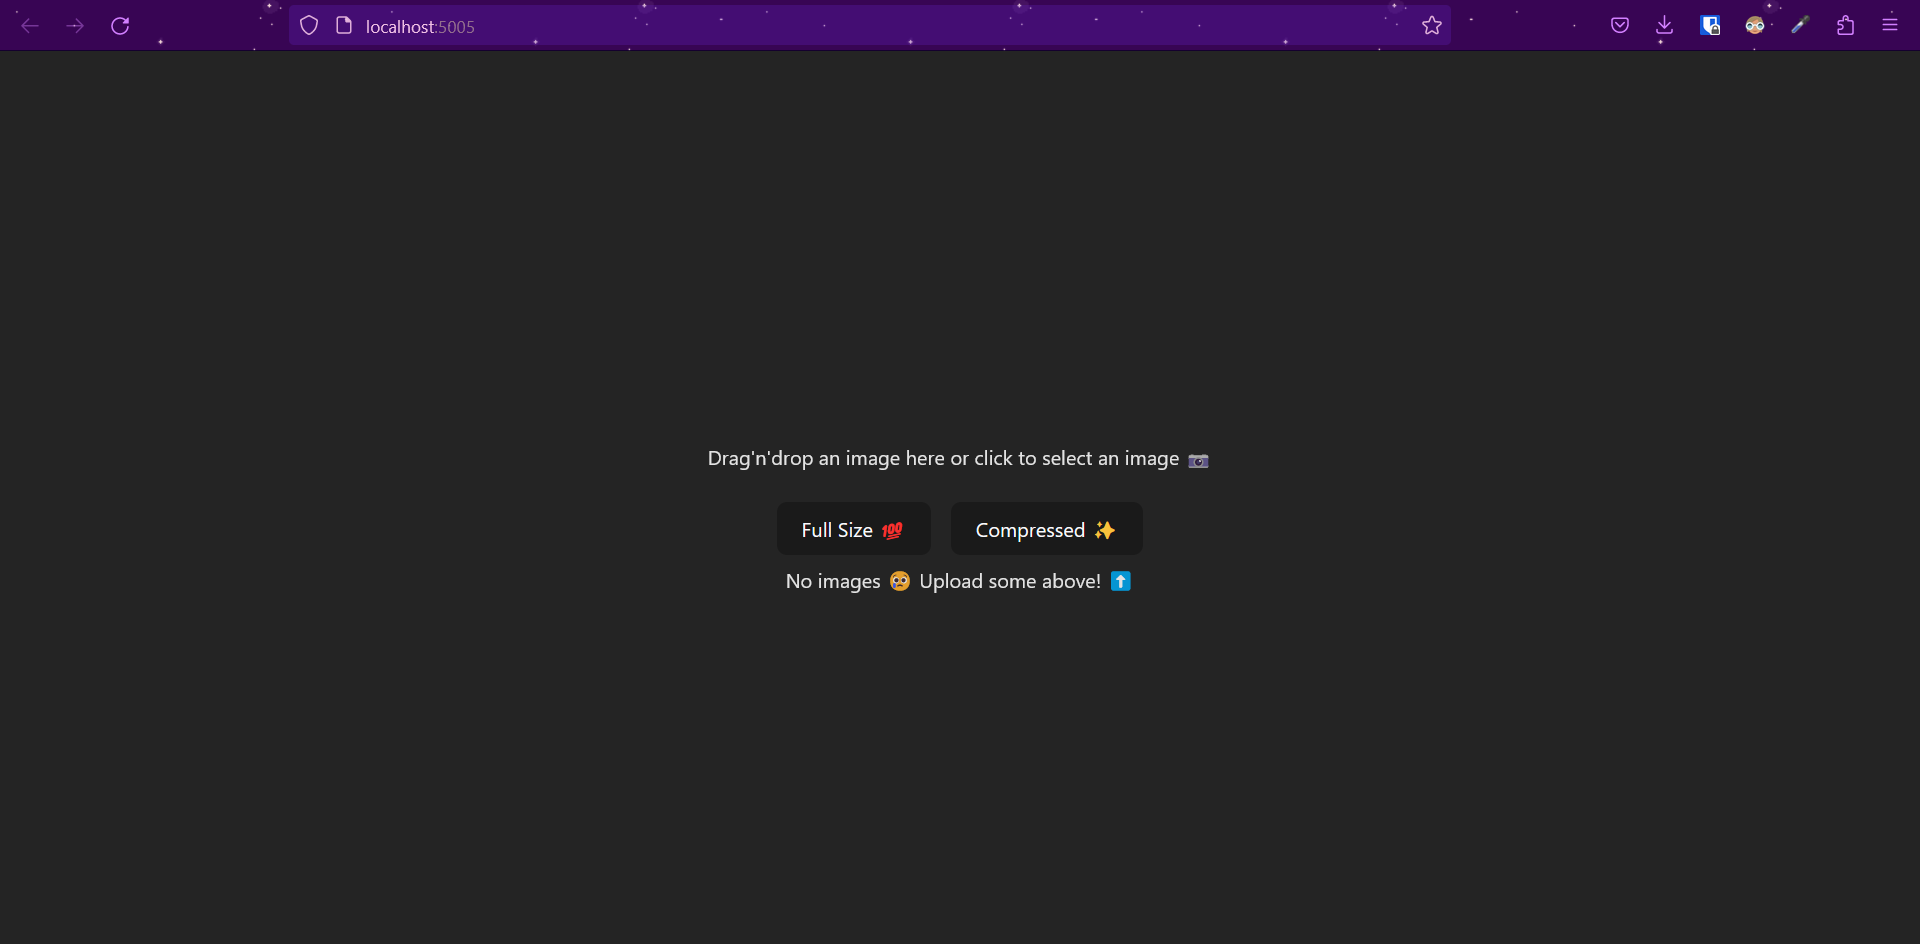
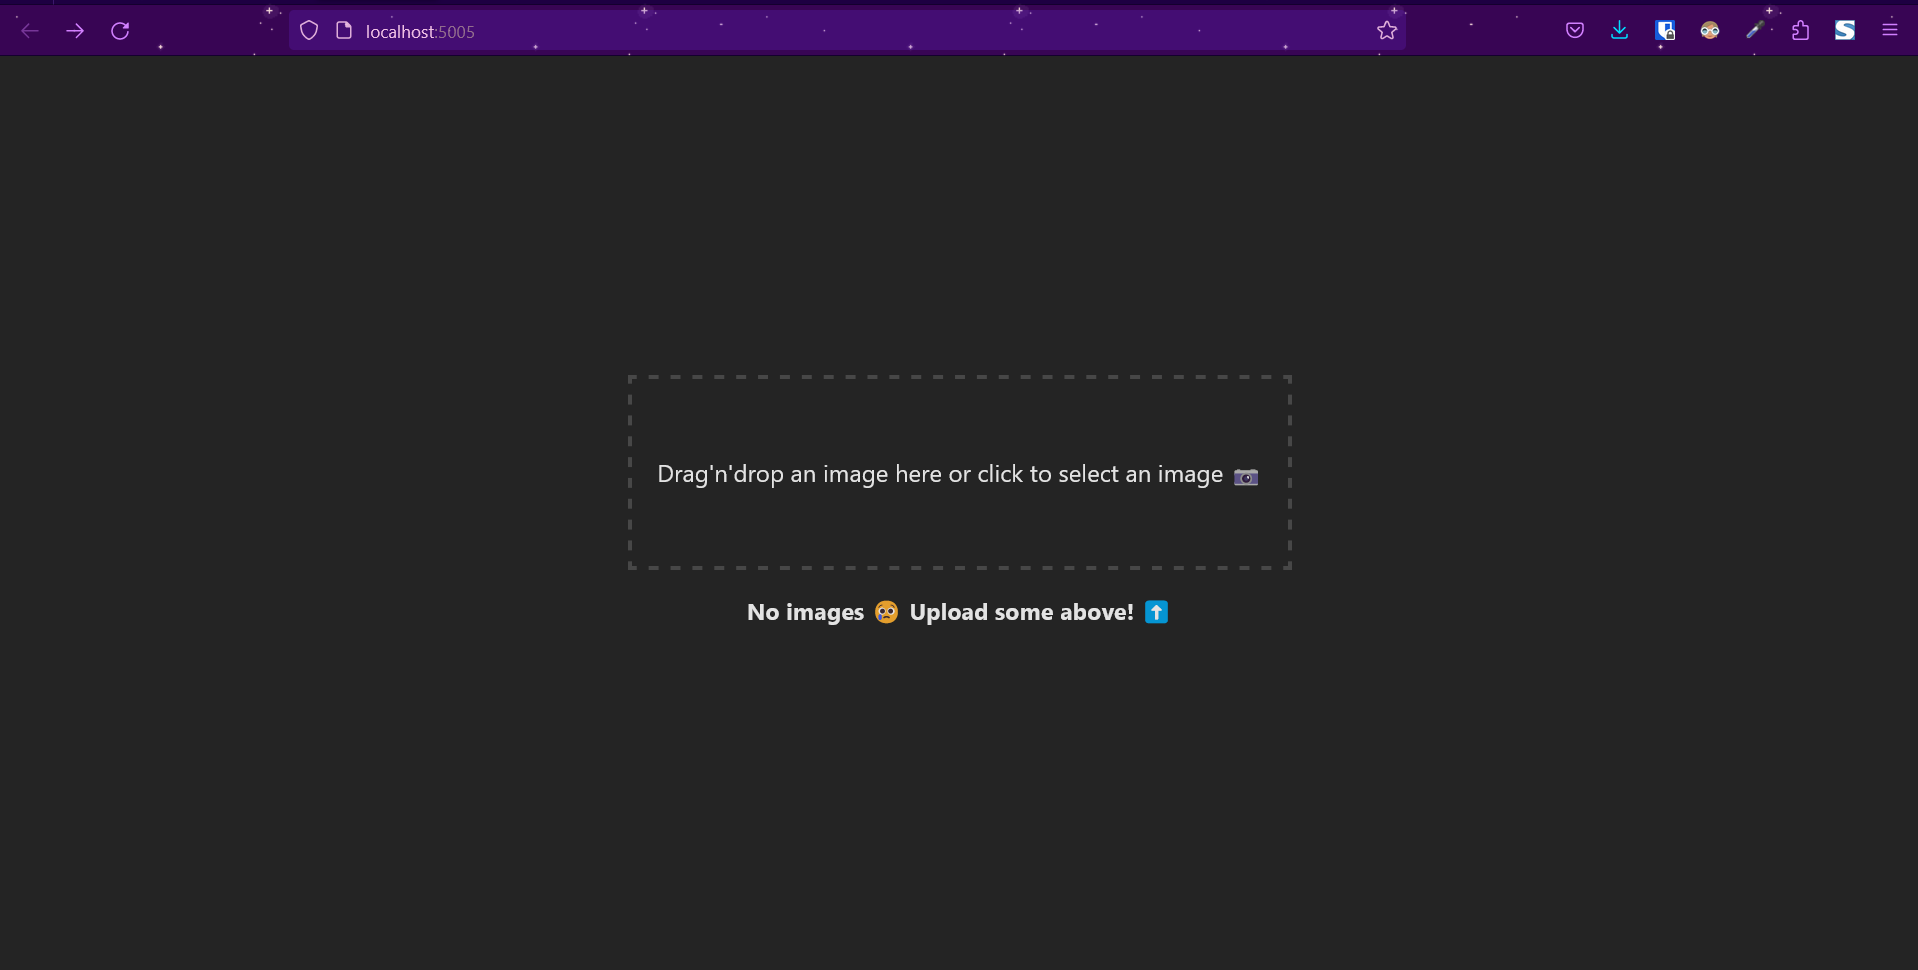
add components descriptions to readme

Changed region(s): [[0.0, 0.0, 1.0, 0.0614], [0.3691, 0.553, 0.6152, 0.6451], [0.3384, 0.4608, 0.6767, 0.5222]]

diff --git a/client/src/ui/ImageUploadForm.tsx b/client/src/ui/ImageUploadForm.tsx
@@ -14,7 +14,7 @@ const ImageUploadForm = () => {
                 {({ getRootProps, getInputProps }) => (
                     <div {...getRootProps()} className="dropzone">
                         <input {...getInputProps()} />
-                        <h3>Drag'n'drop an image here or click to select an image 📷</h3>
+                        <h3 className="dropzone-text">Drag'n'drop an image here or click to select an image 📷</h3>
                     </div>
                 )}
             </Dropzone>

diff --git a/client/src/ui/ImageGallery.tsx b/client/src/ui/ImageGallery.tsx
@@ -11,7 +11,7 @@ const ImageGallery: FC = () => {
             <div>
             </div>
             {imagesData && imagesData?.length > 0 ? <ImageGrid images={imagesData}/> :
-                <div>No images 😢 Upload some above! ⬆</div>}
+                <h3>No images 😢 Upload some above! ⬆</h3>}
         </div>
     )
 }

diff --git a/client/src/ui/index.css b/client/src/ui/index.css
@@ -64,3 +64,9 @@ button:focus-visible {
   align-items: center;
   justify-content: center;
 }
+
+.dropzone-text {
+    font-size: 1.2em;
+    font-weight: 500;
+    padding: 20px;
+}

diff --git a/README.md b/README.md
@@ -40,27 +40,187 @@ PRIVATE_VAPID_KEY=<server_private_vapid_key>
 
 ## Server
 
-API is built with Node.js, TypeScript and Express.js. \
-It exposes the following endpoints:
-- `POST /images/upload` - uploads full size image to Cloudinary and adds a compressing task to the Redis queue
-- `GET /images` - returns a list of all images data stored in the database
-- `GET /images/:id` - returns data of a single image
-- `GET /tasks/:id` - returns data of a single task
-- `GET /tasks/:id/status` - returns status of a single task
+### Endpoints:
+The server exposes several endpoints to interact with the image compressing service:
 
-## Worker
+    POST /images/upload
+This endpoint allows clients to upload full-size images to the server. The server then sends the images to Cloudinary for storage and adds a compressing task to the Redis queue. This asynchronous processing approach ensures that image compression tasks are decoupled from the image upload process, enabling better scalability and responsiveness.
 
-## Client
+    GET /images
+This endpoint provides a list of all images' metadata stored in the database. Clients can use this endpoint to retrieve information about the images available in the system, including their URLs and compression status.
+
+    GET /images/:id
+Clients can use this endpoint to obtain detailed information about a specific image based on its unique ID. This information includes the image's URL and compressed version URL, if available.
+
+    GET /tasks/:id
+This endpoint returns data related to a single compressing task based on its unique ID. Clients can use this endpoint to track the progress and details of ongoing or completed image compression tasks.
+
+    GET /tasks/:id/status
+This endpoint provides the status of a specific compressing task based on its unique ID. Clients can use this endpoint to check whether a particular task is pending, completed, completed with errors, or has failed.
+
+**MVC Architecture:**
+The server is structured using the Model-View-Controller (MVC) architectural pattern, which helps organize code and promote maintainability.
+![mvc.png](media%2Fmvc.png)
 
 ## MongoDB
+### Models:
+```javascript
+const compressingTaskSchema = new Schema({
+    imageId: {
+        type: mongoose.Schema.Types.ObjectId,
+        ref: 'ImageMetadata'
+    },
+    status: {
+        type: String,
+        enum: ['pending', 'completed', 'completed_with_errors', 'failed'],
+        default: 'pending'
+    }
+}, {
+    timestamps: true
+})
 
+export const CompressingTask = mongoose.model('CompressingTask', compressingTaskSchema)
+```
+The **CompressingTask** model is used to store information about image compression tasks. It has two main fields:
+- `imageId` - reference to the ImageMetadata model. This establishes a relationship between the compression task and the image it is meant to compress.
+- `status` - indicates the status of the task. It can be one of the following values:
+    - `pending` - the task is waiting to be processed by the worker
+    - `completed` - the task has been completed successfully
+    - `completed_with_errors` - the task has been completed, but some errors occurred during the process
+    - `failed` - the task has failed
+
+```javascript
+const imageMetadataSchema = new Schema({
+    imageUrl: {
+        type: String,
+        required: true,
+    },
+    compressedUrl: {
+        type: String,
+        default: null,
+    }
+}, {
+    timestamps: true
+})
+
+export const ImageMetadata = mongoose.model('ImageMetadata', imageMetadataSchema)
+
+```
+
+The **ImageMetadata** model is used to store metadata related to images. It contains the following fields:
+- `imageUrl` - URL of the full size image stored in Cloudinary
+- `compressedUrl` - URL of the compressed image stored in Cloudinary.  It is set to null by default, indicating that the image has not been compressed yet.
+
+
+## Worker
+The image compression worker is a Python script responsible for compressing images received from the compressing API. It runs continuously, processing tasks from a Redis queue and interacting with MongoDB and Cloudinary for image processing and storage.
+After the task of compression is done, it sends a message to a Redis topic with the result of the task. The message is then received by the API. \
+### Multiprocessing:
+The script uses multiprocessing to create multiple workers, where each worker acts as an independent image compressor. By distributing tasks across these workers, the system achieves parallel processing of images, improving efficiency and throughput. The blpop method ensures safe task consumption from the Redis queue, preventing duplicate processing and ensuring seamless task distribution among the workers.
+```python
+ def take_task_from_queue(self):
+        result = self.client.blpop(self.tasks_queue_name)
+        logging.info(f"Task taken from {self.tasks_queue_name} queue.")
+        return result[1]
+ ```
+### Image compression:
+The compression is done using the Pillow library. The script first downloads the image from Cloudinary, then compresses it and uploads the compressed version back to Cloudinary. The script also updates the status of the task in MongoDB, indicating whether the compression was successful or not.
+```python
+    def process_image(self, image_url):
+        try:
+            image_bytes = self.cloudinary_client.download_image(image_url)
+            image = self.open_and_convert_image(image_bytes)
+            compressed_image_bytes = self.perform_image_compression(image)
+            compressed_image_url = self.upload_compressed_image(compressed_image_bytes)
+
+            logging.info("Image processed successfully")
+
+            return compressed_image_url
+        except (ImageDownloadError, OpenAndConvertImageError, CompressImageError) as e:
+            raise ProcessImageError(e)
+        except Exception as e:
+            raise UnknownProcessImageError(e)
+```
+## Client
+
+The client component is built with React and Vite. It allows users to upload images to the server and retrieve information about the image. \
+![client.png](media%2Fclient-photos.png)
+![client.png](media%2Fclient-image-info.png)
+
+For optimized information fetching, the client uses the React Query library. It provides a declarative approach to data fetching and caching, which helps avoid unnecessary network requests and improves performance. \
+Application cahces images data from the server and updates it only on new upload. 
+```typescript
+
+export const useGetImagesData = (): UseQueryResult<ImageData[]> => useQuery([IMAGES_LIST_KEY],
+        async () => {
+             // Images data fetching
+        })
+
+
+export const useUploadImage = () => {
+  const queryClient = useQueryClient()
+  return useMutation(async (image: File) => {
+             // Image upload
+          },
+          {
+            onSuccess: () => {
+              queryClient.invalidateQueries([IMAGES_LIST_KEY])
+            },
+          })
+}
+```
 ## Redis
+For communication between the API and the worker, the system uses Redis queues and topics. The API adds compressing tasks to the queue, and the worker consumes them. After the compression is done, the worker publishes the result of the task to a Redis topic. The API then receives the message and updates the status of the task in MongoDB. 
+```typescript
+export const sendMessageToQueue =  (message: QueueMessage) => {
+  const messageString = JSON.stringify(message)
+  redisQueueClient.lpush(queueName, messageString, (err: any) => {
+    if (err) {
+      logger.error('Error sending message to Redis queue:', err)
+    } else {
+      logger.info('Message sent to Redis queue:', message)
+    }
+  })
+}
+```
+
+```python
+    def take_task_from_queue(self):
+        result = self.client.blpop(self.tasks_queue_name)
+        logging.info(f"Task taken from {self.tasks_queue_name} queue.")
+        return result[1]
+
+    def publish_result(self, message):
+        deliveries_count = self.client.publish(self.results_topic_name, message)
+        logging.info(f"Message published to {self.results_topic_name} topic. {deliveries_count} consumers received the message.")
+```
 
 ## Nginx
+The Nginx server is used as a reverse proxy for the API. It hides the API's internal structure and exposes only the necessary endpoints to the outside world. 
 
-## CLoudinary
+```
+server {
+    listen 80;  # Port on which Nginx will listen for incoming requests
 
-## Web Push Notifications
+    location / {
+        proxy_pass http://app_service:3003;  # Points to the backend of service
+        proxy_http_version 1.1;
+        proxy_set_header Upgrade $http_upgrade;
+        proxy_set_header Connection 'upgrade';
+        proxy_set_header Host $host;
+        proxy_cache_bypass $http_upgrade;
+    }
+}
+```
+## Cloudinary
+Cloudinary is a cloud-based image and video management service. It provides a free tier that allows users to store up to 25GB of media and perform up to 25,000 transformations per month. The service also offers a generous free tier, so it is a great alternative to Amazon S3 for small projects. 
+
+## Future improvements
+- Add authentication and authorization to the API
+- Add tasks UI to the client
+- Add push notifications to the client
+- Use nginx to serve the client app
+- Prod and Dev Docker Compose files
 
 
 
